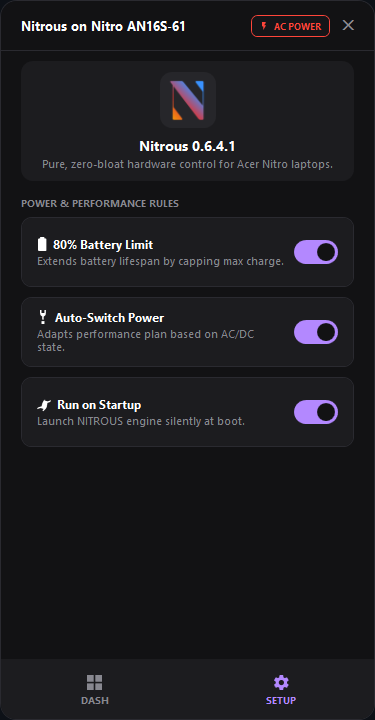
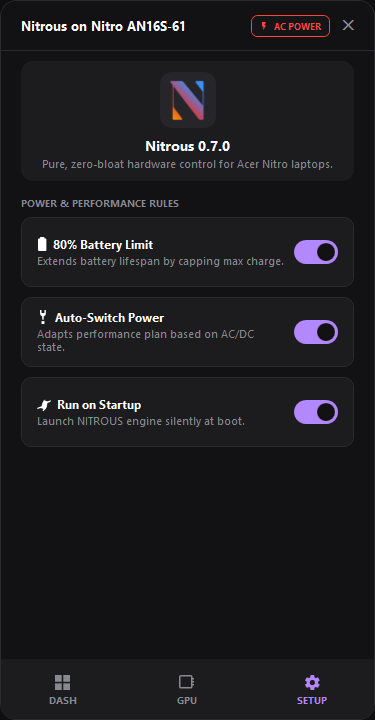
updated readme

diff --git a/README.md b/README.md
@@ -6,16 +6,18 @@
 
 **Pure, zero-bloat hardware control for Acer Nitro laptops.**
 
-![Main Dashboard](assets/dashboard.png) &nbsp; ![App Settings](assets/settings.png)
+![Main Dashboard](assets/dashboard.png) &nbsp; ![GPU](assets/gpu.png) &nbsp; ![App Settings](assets/settings.png)
 
 ---
 
 </div>
 
-Nitrous bypasses heavy, bloated telemetry services by communicating directly with your Acer Nitro’s Embedded Controller (EC) via WMI. It gives you a ultra-fast, lightweight dashboard for raw, instant hardware control.
+Nitrous bypasses heavy, bloated OEM telemetry services by communicating directly with your Acer Nitro’s Embedded Controller (EC) via WMI. It gives you a ultra-fast, lightweight dashboard for raw, instant hardware control.
 
 ### Key Features
-
+* **Dedicated GPU OC/UC Tab:** Fine-tune core and memory offsets to overclock or underclock your GPU.
+* **In-Depth GPU Telemetry:** Monitor real-time GPU metrics, clock speeds, usage, and thermal performance alongside your tuning controls.
+* **Auto-Apply OC Profiles:** Automatically trigger default GPU overclocks based on active power profiles (mimicking native NitroSense behavior) or automatically apply your custom OC profile on system boot.
 * **Granular Fan Control:** Set precise fan speeds from 0% to 100%, or toggle Auto and Max modes via verified 64-bit WMI payloads.
 * **Smart Automation:** Automatically applies quiet modes and 60Hz screen refresh on battery, then restores performance and high refresh rate on AC power.
 * **Battery Protection:** Hardware-level 80% charge limit to extend battery lifespan.
@@ -25,7 +27,7 @@ Nitrous bypasses heavy, bloated telemetry services by communicating directly wit
 
 ### Quick Start
 
-Nitrous is a portable application (under 1MB) with no setup wizard needed.
+Nitrous is a portable application (1MB) with no setup wizard needed.
 
 1. Download **`Nitrous.exe`** from [Releases](https://github.com/jeremyaliparo/nitrous/releases).
 2. Save it anywhere on your PC (e.g., `C:\Tools`).
